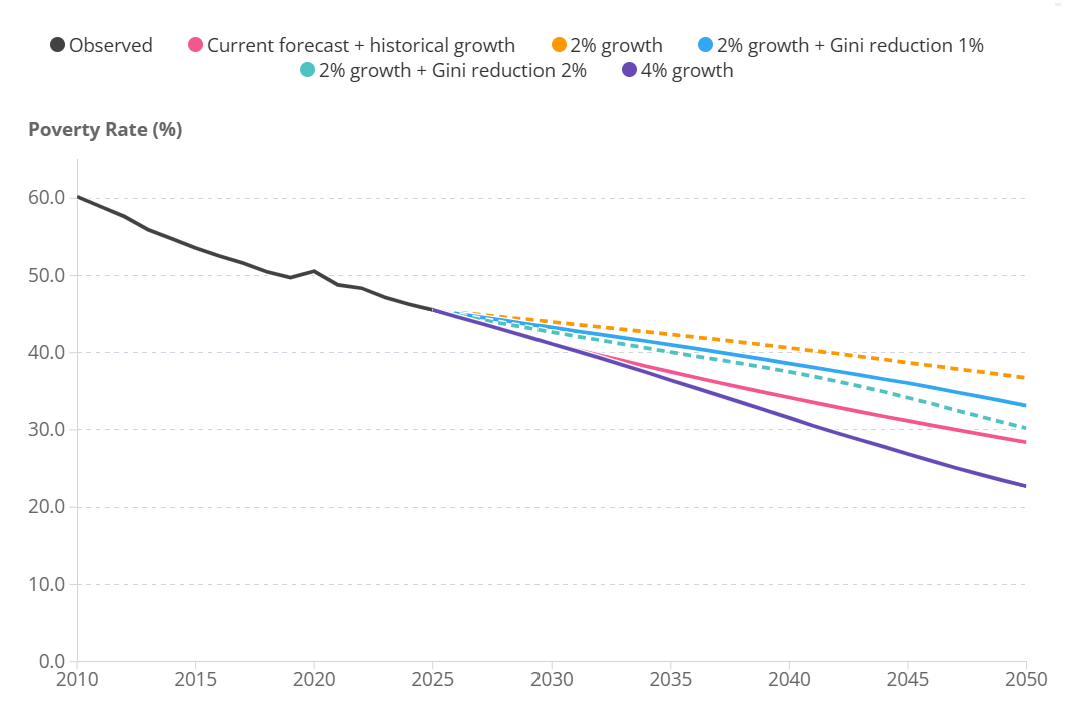
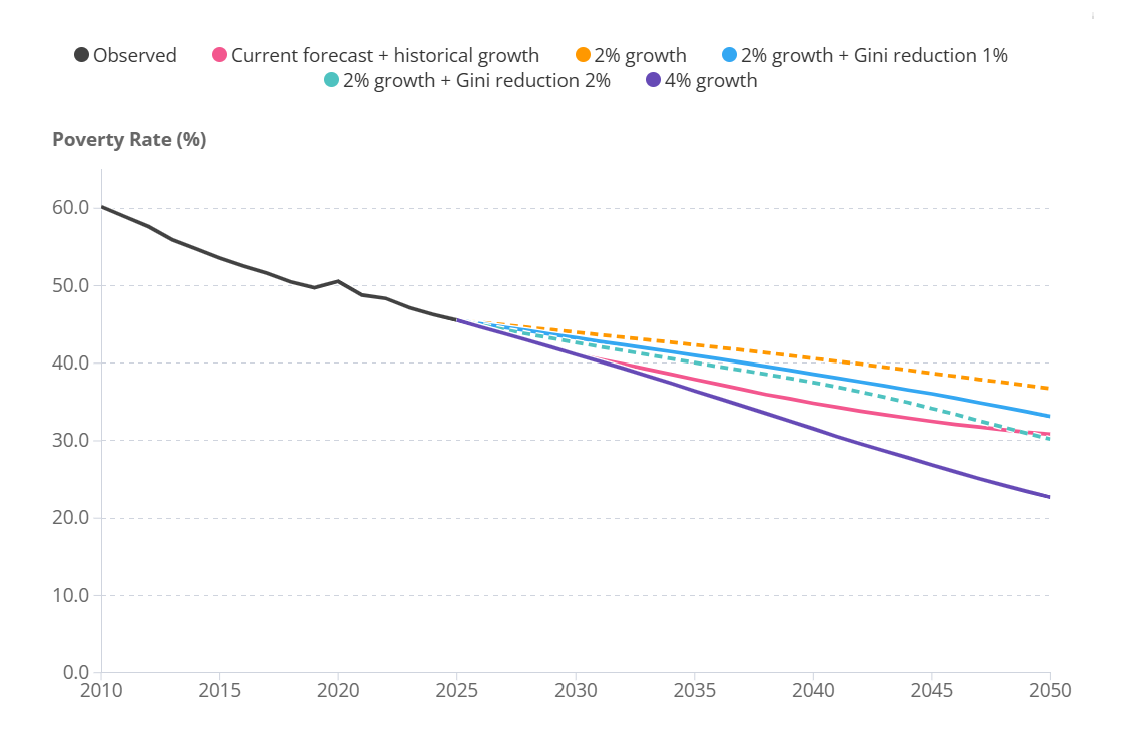
Last round of comments addressed

diff --git a/_site/posts/Page 17 - Figure 17.html b/_site/posts/Page 17 - Figure 17.html
@@ -6,9 +6,9 @@
 
 <meta name="viewport" content="width=device-width, initial-scale=1.0, user-scalable=yes">
 
-<meta name="description" content="Sub-Saharan Africa accounts for most of the poor globally">
+<meta name="description" content="While the number of poor has dropped over the past decades, in Sub-Saharan Africa the number has increased since COVID years">
 
-<title>PIP Chart Gallery - 17 - Concentration of poverty by region in 2025</title>
+<title>PIP Chart Gallery - 17 - Evolution of population in poverty since 1990, by region</title>
 <style>
 code{white-space: pre-wrap;}
 span.smallcaps{font-variant: small-caps;}
@@ -118,7 +118,7 @@ ul.task-list li input[type="checkbox"] {
 
 <header id="title-block-header" class="quarto-title-block default">
 <div class="quarto-title">
-<h1 class="title">17 - Concentration of poverty by region in 2025</h1>
+<h1 class="title">17 - Evolution of population in poverty since 1990, by region</h1>
   <div class="quarto-categories">
     <div class="quarto-category">Poverty</div>
   </div>
@@ -126,7 +126,7 @@ ul.task-list li input[type="checkbox"] {
 
 <div>
   <div class="description">
-    Sub-Saharan Africa accounts for most of the poor globally
+    While the number of poor has dropped over the past decades, in Sub-Saharan Africa the number has increased since COVID years
   </div>
 </div>
 
@@ -141,10 +141,10 @@ ul.task-list li input[type="checkbox"] {
 
 </header>
 
-<div class="flourish-embed flourish-hierarchy" data-src="visualisation/25564496?515064">
+<div class="flourish-embed flourish-chart" data-src="visualisation/25687962?515064">
 <script src="https://public.flourish.studio/resources/embed.js"></script>
 <noscript>
-<img src="https://public.flourish.studio/visualisation/25564496/thumbnail" width="100%" alt="hierarchy visualization">
+<img src="https://public.flourish.studio/visualisation/25687962/thumbnail" width="100%" alt="chart visualization">
 </noscript>
 </div>
 <div class="cell">
@@ -155,7 +155,7 @@ ul.task-list li input[type="checkbox"] {
 </div>
 </div>
 <p style="font-size: 0.5em; color: #555; margin-top: 0.5em;">
-</p><p>Note: Figures show the composition of poverty at the $3.00, $4.20, and $8.30 per person per day poverty lines (expressed in 2021 PPP dollars). In all figures, the inner ring shows the millions of poor people living in a particular region, and the outer ring refers to the totals by country. Figure shows the nowcasts for 2025 using the global model.</p>
+</p><p>Note: Figures show the composition of poverty at the $3.00, $4.20, and $8.30 per person per day poverty lines (expressed in 2021 PPP dollars). Figure shows the nowcasts for 2025 using the global model.</p>
 <p></p>
 <div class="post-nav" style="text-align: right;">
 <p><a href="../posts/Page 16 - Figure 16.html">← Previous</a></p>

diff --git a/_site/index.html b/_site/index.html
@@ -323,7 +323,7 @@ By 2050, more than a quarter of the global population is projected to still live
 </div>
 </a>
 </div>
-<div class="g-col-1" data-index="5" data-categories="Poverty" data-listing-file-modified-sort="1760619495861" data-listing-reading-time-sort="1">
+<div class="g-col-1" data-index="5" data-categories="Poverty" data-listing-file-modified-sort="1760637829913" data-listing-reading-time-sort="1">
 <a href="./posts/Page 6 - Figure 6.html" class="quarto-grid-link">
 <div class="quarto-grid-item card h-100 card-left">
 <p class="card-img-top">
@@ -644,7 +644,7 @@ In 2024, more than three-quarters of the extreme poor live in a country that is 
 </div>
 </a>
 </div>
-<div class="g-col-1" data-index="16" data-categories="Poverty" data-listing-file-modified-sort="1760620489138" data-listing-reading-time-sort="1">
+<div class="g-col-1" data-index="16" data-categories="Poverty" data-listing-file-modified-sort="1760640632316" data-listing-reading-time-sort="1">
 <a href="./posts/Page 17 - Figure 17.html" class="quarto-grid-link">
 <div class="quarto-grid-item card h-100 card-left">
 <p class="card-img-top">
@@ -652,7 +652,7 @@ In 2024, more than three-quarters of the extreme poor live in a country that is 
 </p>
 <div class="card-body post-contents">
 <h5 class="no-anchor card-title listing-title">
-17 - Concentration of poverty by region in 2025
+17 - Evolution of population in poverty since 1990, by region
 </h5>
 <div class="listing-categories">
 <div class="listing-category" onclick="window.quartoListingCategory('Poverty'); return false;">
@@ -660,7 +660,7 @@ Poverty
 </div>
 </div>
 <div class="card-text listing-description">
-Sub-Saharan Africa accounts for most of the poor globally
+While the number of poor has dropped over the past decades, in Sub-Saharan Africa the number has increased since COVID years
 </div>
 <div class="card-attribution card-text-small start">
 <div class="listing-author">

diff --git a/_site/posts/Page 6 - Figure 6.html b/_site/posts/Page 6 - Figure 6.html
@@ -144,7 +144,7 @@ ul.task-list li input[type="checkbox"] {
 <div class="flourish-embed flourish-chart" data-src="visualisation/25658985?515064">
 <script src="https://public.flourish.studio/resources/embed.js"></script>
 <noscript>
-<img src="https://public.flourish.studio/visualisation/25658985/thumbnail" width="100%" alt="chart visualization">
+<img src="https://public.flourish.studio/visualisation/25658985/thumbnail" alt="chart visualization" width="100%">
 </noscript>
 </div>
 <div class="cell">
@@ -155,7 +155,7 @@ ul.task-list li input[type="checkbox"] {
 </div>
 </div>
 <p style="font-size: 0.5em; color: #555; margin-top: 0.5em;">
-</p><p>Note: Poverty rates are shown relative to 2019 levels for the $3.00 and $8.30 per person per day poverty lines (expressed in 2021 PPP dollars). Population coverage is less than 50 percent of the group’s population for low-income countries in 2019 and 2024, and for middle-income countries in 2019. The estimates after 2024 are nowcasts. High-income countries are omitted because poverty rates are small. Income group is kept fixed using the fiscal year 2026 classifications.</p>
+</p><p>Note: Poverty rates are shown relative to 2019 levels for the $3.00 and $8.30 per person per day poverty lines (expressed in 2021 PPP dollars). Population coverage is less than 50 percent of the group’s population for low-income countries in 2019 and 2024, and for lower-middle-income countries in 2019. The estimates after 2024 are nowcasts. High-income countries are omitted because poverty rates are small. Income group is kept fixed using the fiscal year 2026 classifications.</p>
 <p></p>
 <div class="post-nav" style="text-align: right;">
 <p><a href="../posts/Page 5 - Figure 5.html">← Previous</a> | <a href="../posts/Page 7 - Figure 7.html">Next →</a></p>
